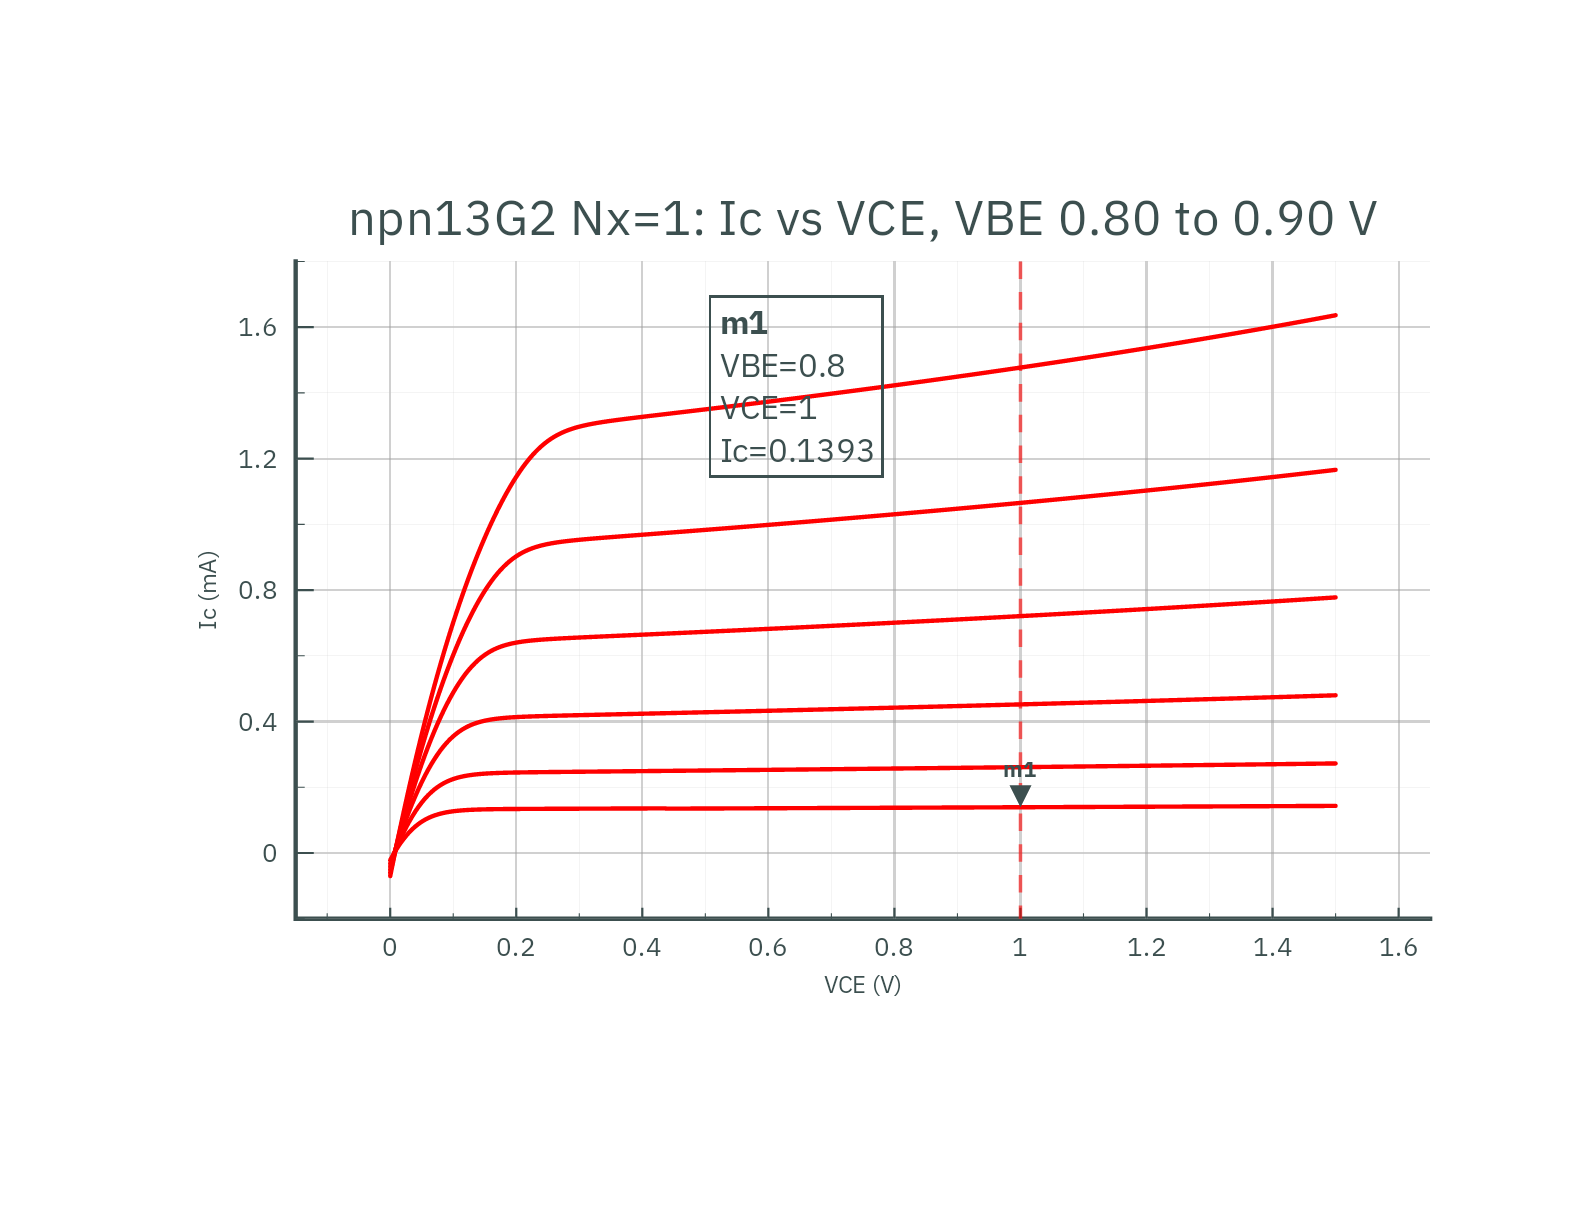
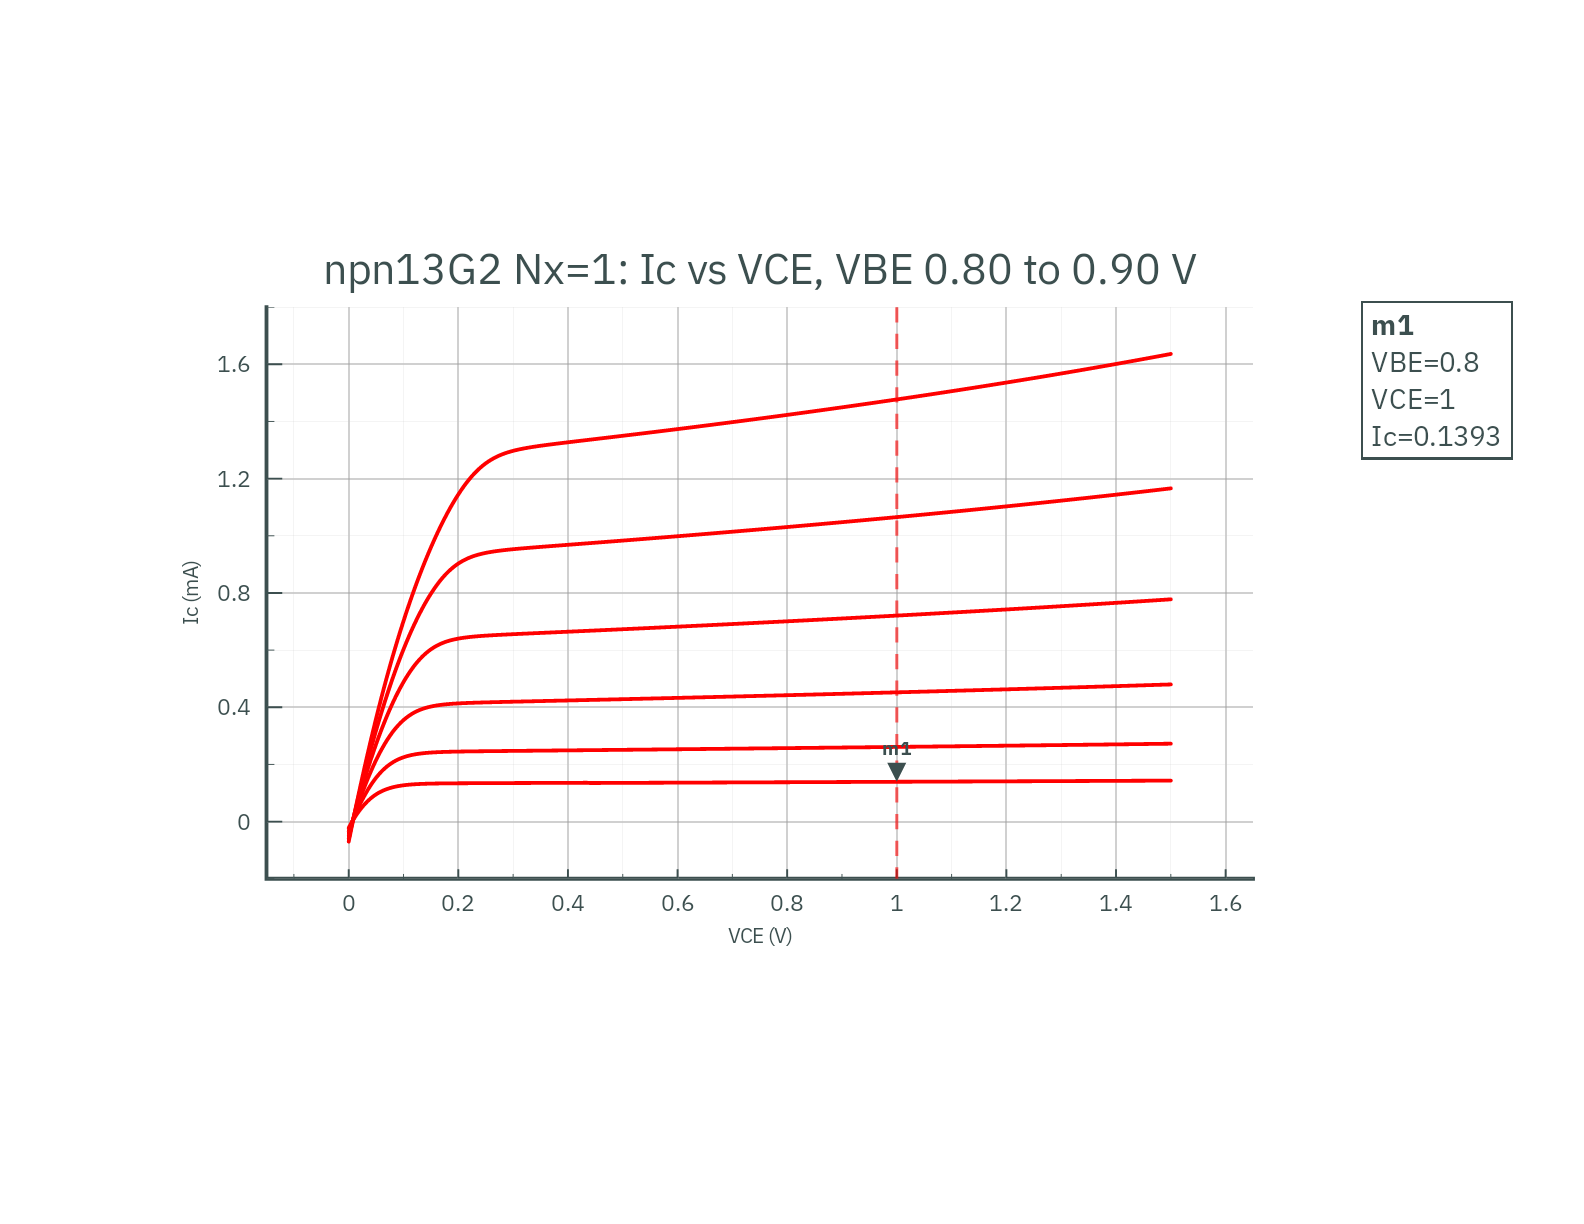
Displays: every axis autoscales to all its traces
MIM_Cap's Q and the inductor's EMerge L were cut off by a fixed right axis and an
autoscale exclusion. The resistors now share one axis, so rhigh's flat line is not
zoomed into its last digit. The fT/fmax and Ic/VCE marker boxes sit beside their plots.

Changed region(s): [[0.1237, 0.1552, 0.959, 0.8072]]

diff --git a/examples/README.md b/examples/README.md
@@ -42,8 +42,8 @@ From the repository's top folder:
 The longest run, the load-pull, takes about 20 s. Each verb runs the whole parametric sweep that
 wraps its analysis, and `-a <sweep>` names the sweep. In the GUI, press Simulate on a bench as usual.
 
-Each bench's data display (`results/<bench>.cdd`) reads the `.npy` its run writes. Every plot autoscales,
-and a marker reads the curves where it matters:
+Each bench's data display (`results/<bench>.cdd`) reads the `.npy` its run writes. Every axis of every
+plot autoscales to all its traces, and a marker reads the curves where it matters:
 
 | Display | Marker m1 |
 |---|---|
@@ -53,8 +53,8 @@ and a marker reads the curves where it matters:
 | `HBT_fT_fmax` | every Nx at VBE = 0.94 V (the peak), and m2 at the peak Jc |
 | `inductor_TB` | L and Q of every solver at 10 GHz |
 
-The inductor's EMerge L trace is left out of the autoscale: it goes through resonance near 40 GHz and
-would set the scale. The pictures below are these displays, from `docs/make-figures.sh`, on white.
+The inductor's L plot shows EMerge's self-resonance near 40 GHz in full. The three resistors share
+one axis. The pictures below are these displays, from `docs/make-figures.sh`, on white.
 
 Against the same benches run on circuitRF 1.6.0 with the kit's previous build:
 - **Six benches are identical** in every number: everything except the load-pull.
